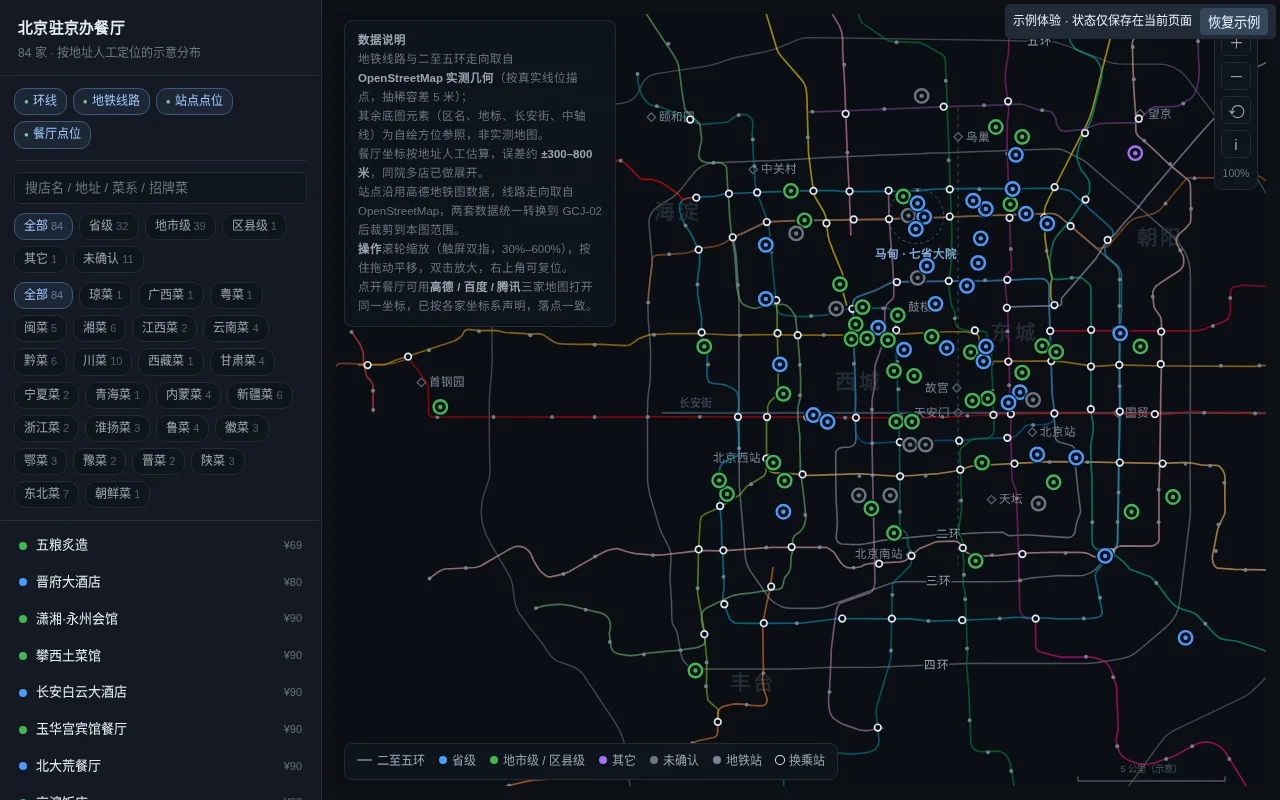
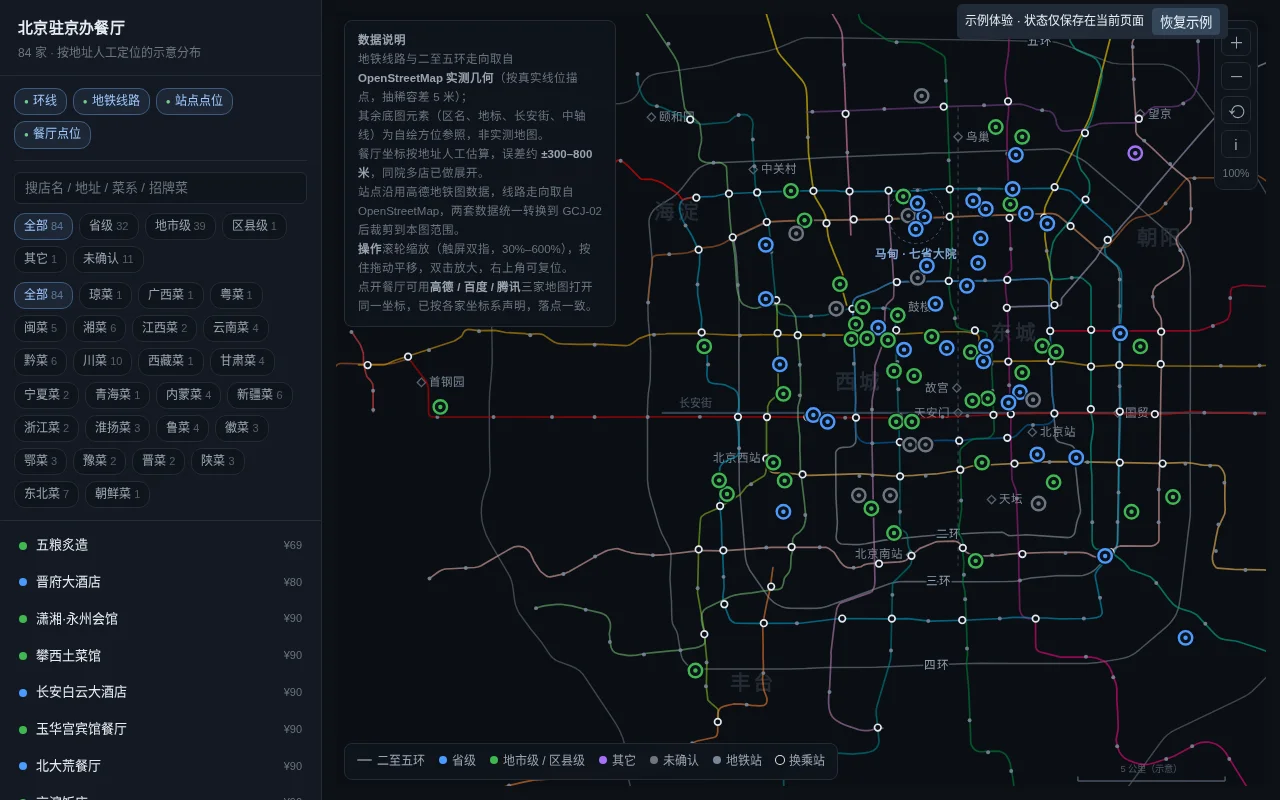
Add restaurant map template

Changed region(s): [[0.75, 0.0, 1.0, 0.0625]]

diff --git a/6c9da9411c9390a7d2a6be68/showcase/preview.html b/6c9da9411c9390a7d2a6be68/showcase/preview.html
@@ -271,7 +271,7 @@
     .zoombar{right:auto; left:10px; top:10px}
   }
 
-  .demo-bar{position:fixed;z-index:100;top:4px;right:4px;display:flex;gap:8px;align-items:center;padding:4px 8px;border-radius:5px;background:#202a36;color:#e6edf3;font-size:12px}
+  .demo-bar{position:fixed;z-index:100;top:4px;right:52px;display:flex;gap:8px;align-items:center;padding:4px 8px;border-radius:5px;background:#202a36;color:#e6edf3;font-size:12px}
   .demo-bar button{color:inherit;background:#34475b;border:0;border-radius:4px;padding:4px 8px;cursor:pointer}
 </style></head><body><div class="demo-bar">示例体验 · 状态仅保存在当前页面 <button id="demo-reset" type="button">恢复示例</button></div>
 <div data-page-node-id="p2SFbp0n9Cc1fAmQjArb01" class="app">
@@ -808,6 +808,10 @@ function openCard(id, focus){
       <a class="sec" href="#" data-copy="${it.addr.replace(/"/g,'&quot;')}">复制地址</a>
     </div>`;
 
+  card.querySelectorAll('.actions a[target="_blank"]').forEach(link=>{
+    link.removeAttribute('href'); link.removeAttribute('target');
+    link.title='安装后可打开地图'; link.textContent += '（安装后可用）';
+  });
   card.querySelector('.cl').onclick = ()=>{ active=null; card.classList.remove('show'); render(); };
   card.querySelector('[data-copy]').onclick = e=>{
     e.preventDefault();
